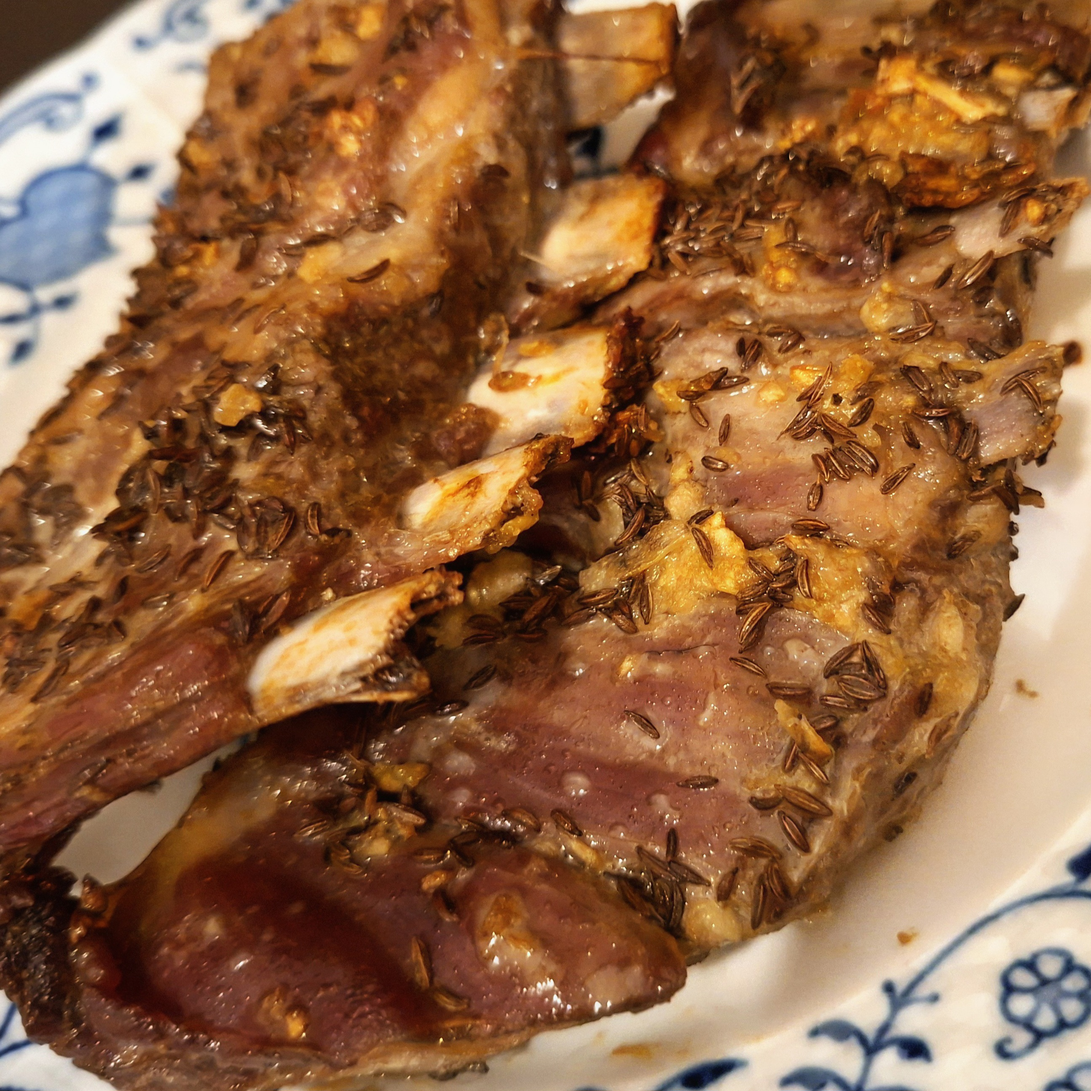
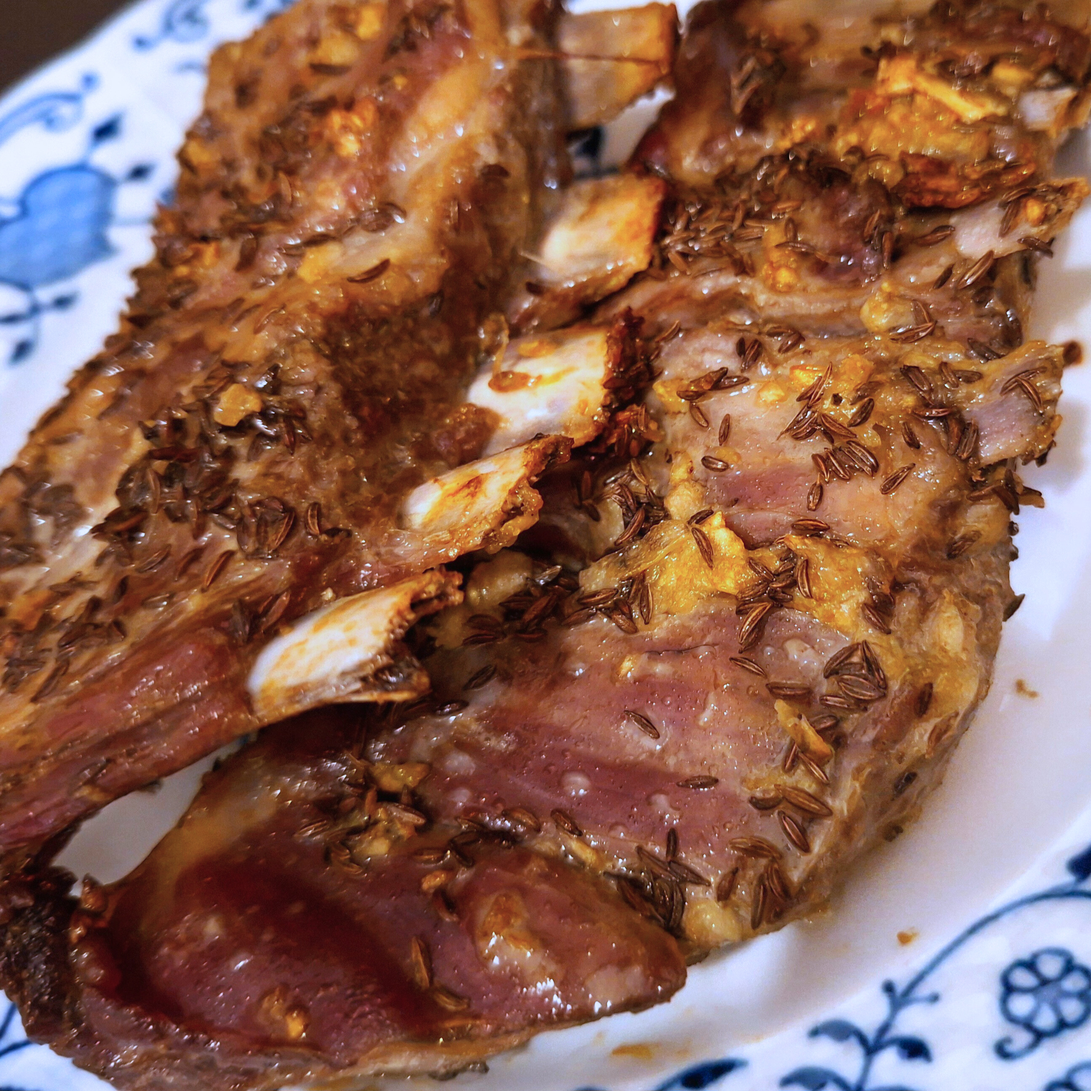
Letzte Updates, neue Bilder

diff --git a/src/css/input.css b/src/css/input.css
@@ -144,7 +144,7 @@
 
 /* Regular slideshow animations (for non-testimonial sections) */
 #slideshow-personenbetreuung .slide {
-  animation: fadeEffect 40s infinite; /* Updated duration for 10 slides at 4s each */
+  animation: fadeEffect 36s infinite; /* Updated duration for 9 slides at 4s each */
 }
 
 /* Stagger animation delays for regular slideshows */
@@ -184,10 +184,6 @@
 
 #slideshow-personenbetreuung .slide:nth-child(9) {
   animation-delay: 32s;
-}
-
-#slideshow-personenbetreuung .slide:nth-child(10) {
-  animation-delay: 36s;
 }
 
 /* Testimonials specific settings */

diff --git a/src/index.md b/src/index.md
@@ -190,11 +190,6 @@ title: 24ja.at | Kinderbetreuung, Personenbetreuung & Begleitung in Wien
                         {% picture site.imagePrefix + '/assets/images/original/erwachsenenbetreuung/lammrippen-knoblauch-oregano.jpg', "Lammrippen mit Knoblauch und Oregano", "100vw", "w-full h-full object-contain" %}
                         <div class="slide-caption">Lammrippen mit Knoblauch und Oregano</div>
                     </div>
-                    <!-- Image 5 -->
-                    <div class="slide">
-                        {% picture site.imagePrefix + '/assets/images/original/erwachsenenbetreuung/Vorspeisenteller.jpg', "Kreativer Vorspeisenteller", "100vw", "w-full h-full object-contain" %}
-                        <div class="slide-caption">Kreativer Vorspeisenteller</div>
-                    </div>
                     <!-- Image 6 -->
                     <div class="slide">
                         {% picture site.imagePrefix + '/assets/images/original/erwachsenenbetreuung/Erfrischende Cocktails aus Banane und Ananas.jpg', "Erfrischende Cocktails aus Banane und Ananas", "100vw", "w-full h-full object-contain" %}
